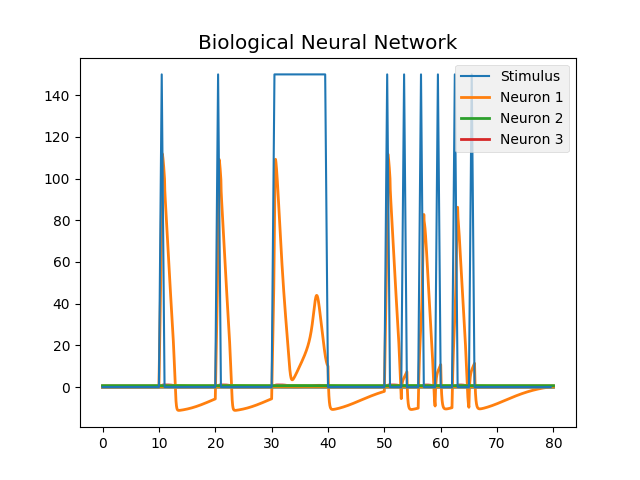
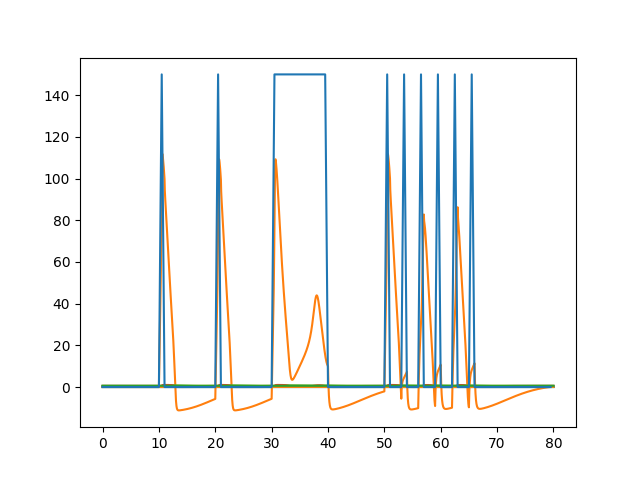
updated euler_estimated

diff --git a/src/biological_neural_network.py b/src/biological_neural_network.py
@@ -4,27 +4,22 @@ class BiologicalNeuralNetwork:
         self.synapses = synapses
 
     def get_derivatives(self):
-        derivatives = []
+        derivatives = {}
         for i in range(len(self.neurons)):
-            synaps_senders = [y for x,y in self.synapses if x == i]
-
-            if i in [y for x,y in self.synapses]:
-                derivatives.append(lambda t, x, i=i, n=self.neurons[i]: n.dV(
-                    t, x[i*4:(i+1)*4]) + sum(x[p*4] for p in synaps_senders)/n.C)
-            else:
-                derivatives.append((lambda t, x, i=i, n=self.neurons[i]: n.dV(t, x[i*4:(i+1)*4])))
-
-            derivatives.append(lambda t, x, i=i, n=self.neurons[i]: n.dn_dt(t, x[i*4:(i+1)*4]))
-            derivatives.append(lambda t, x, i=i, n=self.neurons[i]: n.dm_dt(t, x[i*4:(i+1)*4]))
-            derivatives.append(lambda t, x, i=i, n=self.neurons[i]: n.dh_dt(t, x[i*4:(i+1)*4]))
-            
+            neuron = self.neurons[i]
+            synaps_senders = [x for x,y in self.synapses if y == i]
+            derivatives['V'+str(i)]= (lambda t, x, i=i, n=neuron, ss = synaps_senders:n.dV()(t, list(x.values())[i*4:(i+1)*4]) + sum([list(x.values())[p*4] for p in ss if list(x.values())[p*4]>50])/n.C)
+            derivatives['n'+str(i)]=(lambda t, x, i=i, n=neuron: n.dn_dt(t, list(x.values())[i*4:(i+1)*4]))
+            derivatives['m'+str(i)]=(lambda t, x, i=i, n=neuron: n.dm_dt(t, list(x.values())[i*4:(i+1)*4]))
+            derivatives['h'+str(i)]=(lambda t, x, i=i, n=neuron: n.dh_dt(t, list(x.values())[i*4:(i+1)*4]))
         return derivatives
 
     def get_starting_point(self):
-        point = (0,[])
+        point = [0,{}]
         for neuron in self.neurons:
-            point[1].append(0)
-            point[1].append(neuron.n_0)
-            point[1].append(neuron.m_0)
-            point[1].append(neuron.h_0)
+            point[1]['V'+str(self.neurons.index(neuron))] = 0
+            point[1]['n'+str(self.neurons.index(neuron))] = neuron.n_0
+            point[1]['m'+str(self.neurons.index(neuron))] = neuron.m_0
+            point[1]['h'+str(self.neurons.index(neuron))] = neuron.h_0
+        print(point[1])
         return point

diff --git a/tests/test_biological_neural_network.py b/tests/test_biological_neural_network.py
@@ -5,40 +5,38 @@ from euler_estimator import EulerEstimator
 from biological_neuron import BiologicalNeuron
 from biological_neural_network import BiologicalNeuralNetwork
 
-def electrode_voltage(t):
-        if t > 10 and t < 11:
-            return 150
-        elif t > 20 and t < 21:
-            return 150
-        elif t > 30 and t < 40:
-            return 150
-        elif t > 50 and t < 51:
-            return 150
-        elif t > 53 and t < 54:
-            return 150
-        elif t > 56 and t < 57:
-            return 150
-        elif t > 59 and t < 60:
-            return 150
-        elif t > 62 and t < 63:
-            return 150
-        elif t > 65 and t < 66:
-            return 150
-        return 0
 
-neuron_0 = BiologicalNeuron(stimulus = electrode_voltage)
+def electrode_voltage(t):
+    if t > 10 and t < 11:
+        return 50
+    elif t > 20 and t < 21:
+        return 50
+    elif t > 30 and t < 40:
+        return 50
+    elif t > 50 and t < 51:
+        return 50
+    elif t > 53 and t < 54:
+        return 50
+    elif t > 56 and t < 57:
+        return 50
+    elif t > 59 and t < 60:
+        return 50
+    elif t > 62 and t < 63:
+        return 50
+    elif t > 65 and t < 66:
+        return 50
+    return 0
+neuron_0 = BiologicalNeuron(stimulus=electrode_voltage)
 neuron_1 = BiologicalNeuron()
 neuron_2 = BiologicalNeuron()
 neurons = [neuron_0, neuron_1, neuron_2]
-
-synapses = [(0,1), (1,2)]
-#The neural network resembles a directed graph:
-#0 --> 1 --> 2
-
+synapses = [(0, 1), (1, 2)]
 network = BiologicalNeuralNetwork(neurons, synapses)
 euler = EulerEstimator(
-        derivatives = network.get_derivatives(),
-        point = network.get_starting_point()
-    )
-plt.plot([n/2 for n in range(160)], [electrode_voltage(n/2) for n in range(160)])
-euler.plot([0, 80], step_size = 0.001, filename = 'neuron.png')
+    derivatives=network.get_derivatives(),
+    point=network.get_starting_point()
+)
+plt.plot([n/2 for n in range(160)], [electrode_voltage(n/2)
+                                        for n in range(160)])
+euler.plot([0, 80], step_size=0.001,
+            filename="biological_neural_network")

diff --git a/tests/test_euler_estimator.py b/tests/test_euler_estimator.py
@@ -1,10 +1,44 @@
+import sys
+sys.path.append('src')
 from euler_estimator import EulerEstimator
 
+euler = EulerEstimator(derivatives = {'a':(lambda x: x['a']/2)}, point = (1,{'a':4}))
+
+print("\n Testing starting point")
+assert euler.point == (1,{'a':4}), 'Incorrect Starting point'
+print("     passed")
+ 
+print("\n Testing starting derivative")
+assert euler.calc_derivative_at_point() == {'a':2}, "Expected: "+str({'a':2})+", Got: "+str(euler.calc_derivative_at_point())
+print("     passed")
+ 
+print("\n Testing point after first step")
+euler.step_forward(0.1)
+assert euler.point == (1.1, {'a':4.2}), 'Incorrect point after first step'
+print("     passed")
+ 
+print("\n Testing derivative after first step")
+assert euler.calc_derivative_at_point() == {'a':2.1},'Incorrect derivative after first step'
+print("     passed")
+ 
+print("\n Testing point after 2nd step")
+euler.step_forward(-0.5)
+assert (round(euler.point[0],3),{item:round(euler.point[1][item],3) for item in euler.point[1]})== (0.6, {'a':3.15}), 'Incorrect point after 2nd step'
+print("     passed")
+ 
+print("\n Testing go_to_input")
+euler.go_to_input(3, step_size = 0.5)
+assert (round(euler.point[0],3),{item:round(euler.point[1][item],3) for item in euler.point[1]}) == (3, {'a':9.229}), 'Incorrect final result'
+print("     passed")
+ 
+
+
 euler = EulerEstimator(
-                derivatives = [
-                    (lambda x: 0.6*x[0] - 0.05*x[0]*x[1]),
-                    (lambda x: -0.9*x[1] + 0.02*x[0]*x[1])
-                    ],
-                point = (0,(100,10))
-            )
-euler.plot([0,100], step_size = 0.001, filename = 'plot.png')
+                derivatives = {
+    'susceptible': (lambda x: -0.0003*x['susceptible']*x['infected']),
+    'infected': (lambda x: 0.0003*x['susceptible']*x['infected'] - 0.02*x['infected']),
+    'recovered': (lambda x: 0.02*x['infected'])
+},
+point = (0, {'susceptible': 1000, 'recovered': 0, 'infected': 1}))
+
+euler.plot([0,100], step_size = 0.001, filename = 'test_plot.png')

diff --git a/src/euler_estimator.py b/src/euler_estimator.py
@@ -5,15 +5,15 @@ class EulerEstimator:
         self.point = point
 
     def calc_derivative_at_point(self):
-        derivatives = []
-        for x in range(len(self.derivatives)):
-            derivatives.append(self.derivatives[x](self.point[0],self.point[1]))
+        derivatives = {}
+        for item in self.derivatives:
+            derivatives[item]=(self.derivatives[item](self.point[0],self.point[1]))
         return derivatives
 
     def step_forward(self, step_size):
         derivatives = self.calc_derivative_at_point()
-        new_points = [self.point[1][x] + (step_size*derivatives[x]) for x in range(len(derivatives))]
-        self.point = (self.point[0]+step_size, tuple(new_points))
+        new_points = {item:(self.point[1][item] + (step_size*derivatives[item])) for item in derivatives}
+        self.point = (self.point[0]+step_size, new_points)
         
     def go_to_input(self, stop_x, step_size):
         while abs(self.point[0]) < abs(stop_x):
@@ -34,15 +34,13 @@ class EulerEstimator:
         y_data = []
         for x in x_data[:given_index][::-1]:
             self.go_to_input(x, step_size)
-            y_data.insert(0, self.point[1])
+            y_data.insert(0, [self.point[1][item] for item in self.point[1]])
         self.point = given_point
         for x in x_data[given_index:]:
             self.go_to_input(x, step_size)
-            y_data.append(self.point[1])
+            y_data.append([self.point[1][item] for item in self.point[1]])
         plt.style.use('bmh')
         for y_vals in zip(*y_data):
             plt.plot(x_data, y_vals, zorder=1)
-        plt.legend(['Stimulus','Neuron 1','Neuron 2','Neuron 3'])
-        plt.title('Biological Neural Network')
-        plt.plot()
+        plt.legend([item for item in self.derivatives])
         plt.savefig(filename)

diff --git a/src/biological_neuron.py b/src/biological_neuron.py
@@ -35,6 +35,7 @@ class BiologicalNeuron:
 
     def dh_dt(self, t, x):
         return self.ah(t, x)*(1 - x[3]) - self.Bh(t, x)*x[3]
+
     def INa(self, t, x):
         return self.gna(t, x)*(x[0]-115)
 
@@ -53,11 +54,11 @@ class BiologicalNeuron:
     def gl(self, t, x):
         return 0.3
 
-    def dV(self, t, x):
-        return (self.s_t(t) - self.INa(t, x) - self.Ik(t, x) - self.IL(t, x))
+    def dV(self):
+        return lambda t,x : (self.s_t(t) - self.INa(t, x) - self.Ik(t, x) - self.IL(t, x))
 
     def plot_activity(self):
-        estimator = EulerEstimator(derivatives = [self.dV, self.dn_dt, self.dm_dt, self.dh_dt],
+        estimator = EulerEstimator(derivatives = [self.dV(), self.dn_dt, self.dm_dt, self.dh_dt],
                 point = (0, (0, self.n_0, self.m_0, self.h_0)))
         plt.plot([n/2 for n in range(160)], [self.s_t(n/2) for n in range(160)])
 
